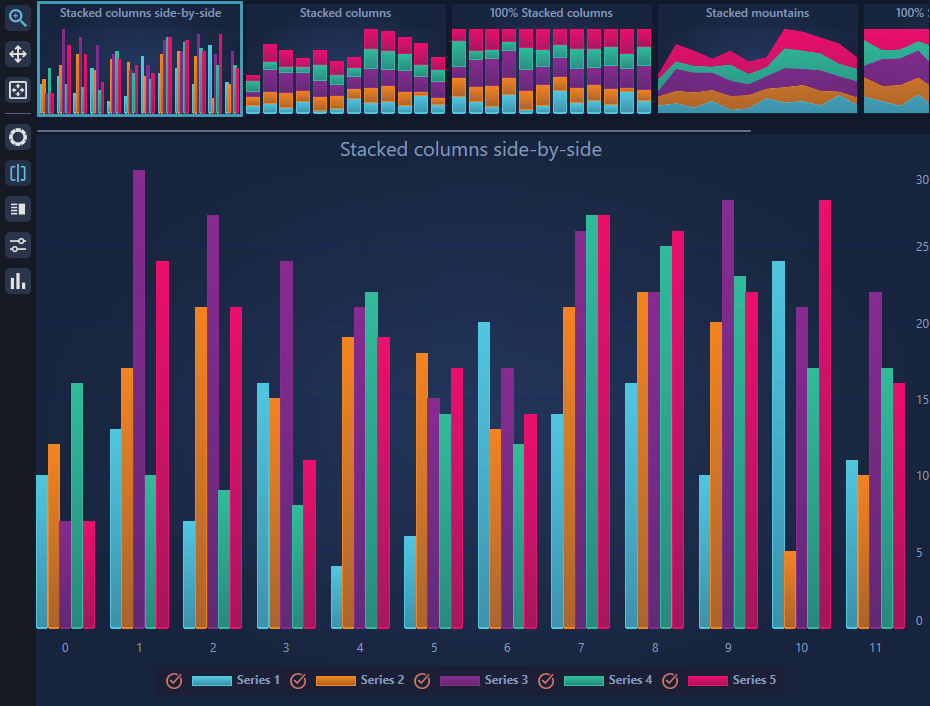
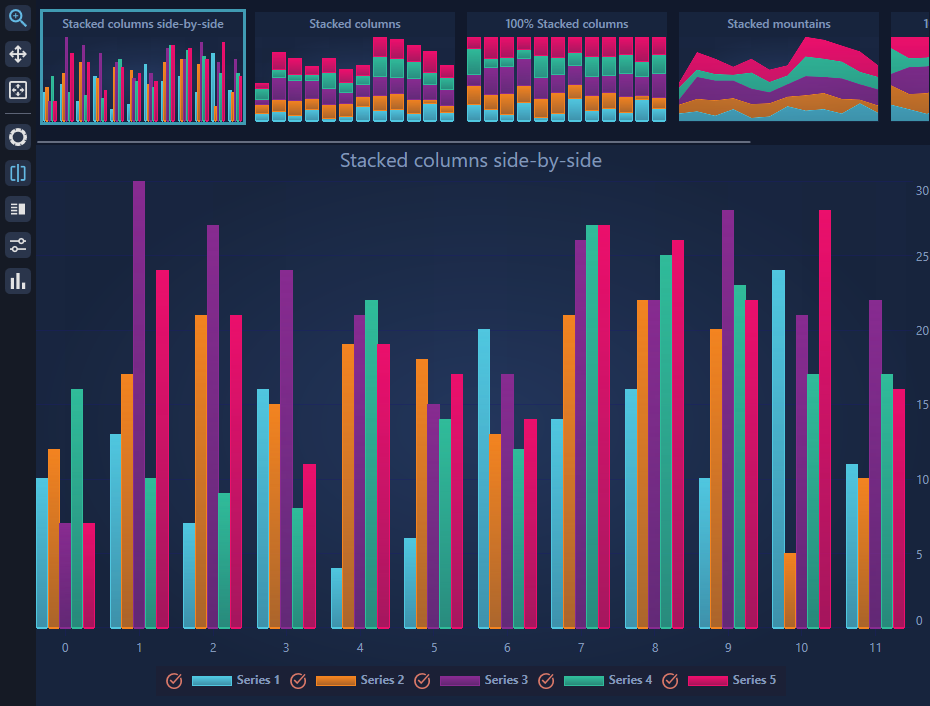
SciChart version 8.0.0.27737

diff --git a/Examples/SciChart.Examples/Examples/CreateMultiseriesChart/DashboardStyleCharts/ExampleListBoxStyle.xaml b/Examples/SciChart.Examples/Examples/CreateMultiseriesChart/DashboardStyleCharts/ExampleListBoxStyle.xaml
@@ -3,36 +3,36 @@
                     xmlns:s="http://schemas.abtsoftware.co.uk/scichart">
 
     <Style x:Key="ExampleListBoxStyle" TargetType="ListBox">
-        <Setter Property="Background" Value="Transparent" />
-        <Setter Property="BorderThickness" Value="0" />
+        <Setter Property="Background" Value="Transparent"/>
+        <Setter Property="BorderThickness" Value="0"/>
+        <Setter Property="Margin" Value="0,5,0,0"/>
         <Setter Property="ItemsPanel">
             <Setter.Value>
                 <ItemsPanelTemplate>
-                    <StackPanel Orientation="Horizontal" />
+                    <StackPanel Orientation="Horizontal"/>
                 </ItemsPanelTemplate>
             </Setter.Value>
         </Setter>
         <Setter Property="ItemContainerStyle">
             <Setter.Value>
                 <Style TargetType="ListBoxItem">
-                    <Setter Property="Padding" Value="3" />
-                    <Setter Property="HorizontalContentAlignment" Value="Left" />
-                    <Setter Property="VerticalContentAlignment" Value="Top" />
-                    <Setter Property="Background" Value="Transparent" />
-                    <Setter Property="BorderThickness" Value="1" />
+                    <Setter Property="Padding" Value="3"/>
+                    <Setter Property="HorizontalContentAlignment" Value="Left"/>
+                    <Setter Property="VerticalContentAlignment" Value="Center"/>
+                    <Setter Property="Background" Value="Transparent"/>
                     <Setter Property="Template">
                         <Setter.Value>
                             <ControlTemplate TargetType="ListBoxItem">
-                                <Grid Background="{TemplateBinding Background}">
+                                <Border Background="{TemplateBinding Background}">
                                     <VisualStateManager.VisualStateGroups>
                                         <VisualStateGroup x:Name="CommonStates">
-                                            <VisualState x:Name="Normal" />
+                                            <VisualState x:Name="Normal"/>
                                             <VisualState x:Name="MouseOver">
                                                 <Storyboard>
                                                     <DoubleAnimation Duration="0"
                                                                      Storyboard.TargetName="fillColor"
                                                                      Storyboard.TargetProperty="Opacity"
-                                                                     To=".35" />
+                                                                     To=".35"/>
                                                 </Storyboard>
                                             </VisualState>
                                             <VisualState x:Name="Disabled">
@@ -40,18 +40,18 @@
                                                     <DoubleAnimation Duration="0"
                                                                      Storyboard.TargetName="contentPresenter"
                                                                      Storyboard.TargetProperty="Opacity"
-                                                                     To=".55" />
+                                                                     To=".55"/>
                                                 </Storyboard>
                                             </VisualState>
                                         </VisualStateGroup>
                                         <VisualStateGroup x:Name="SelectionStates">
-                                            <VisualState x:Name="Unselected" />
+                                            <VisualState x:Name="Unselected"/>
                                             <VisualState x:Name="Selected">
                                                 <Storyboard>
                                                     <DoubleAnimation Duration="0"
                                                                      Storyboard.TargetName="fillColor2"
                                                                      Storyboard.TargetProperty="Opacity"
-                                                                     To=".75" />
+                                                                     To=".75"/>
                                                 </Storyboard>
                                             </VisualState>
                                         </VisualStateGroup>
@@ -69,33 +69,32 @@
                                                     </ObjectAnimationUsingKeyFrames>
                                                 </Storyboard>
                                             </VisualState>
-                                            <VisualState x:Name="Unfocused" />
+                                            <VisualState x:Name="Unfocused"/>
                                         </VisualStateGroup>
                                     </VisualStateManager.VisualStateGroups>
-                                    <Rectangle x:Name="fillColor"
-                                               Fill="{StaticResource MainThemeSolidBrush}"
-                                               IsHitTestVisible="False"
-                                               Opacity="0"
-                                               RadiusX="1"
-                                               RadiusY="1" />
-                                    <Rectangle x:Name="fillColor2"
-                                               Fill="{StaticResource MainThemeSolidBrush}"
-                                               IsHitTestVisible="False"
-                                               Opacity="0"
-                                               RadiusX="1"
-                                               RadiusY="1" />
-                                    <ContentPresenter x:Name="contentPresenter"
-                                                      Margin="{TemplateBinding Padding}"
-                                                      HorizontalAlignment="{TemplateBinding HorizontalContentAlignment}"
-                                                      Content="{TemplateBinding Content}"
-                                                      ContentTemplate="{TemplateBinding ContentTemplate}" />
-                                    <Rectangle x:Name="FocusVisualElement"
-                                               RadiusX="1"
-                                               RadiusY="1"
-                                               Stroke="{StaticResource MainThemeSolidBrush}"
-                                               StrokeThickness="1"
-                                               Visibility="Collapsed" />
-                                </Grid>
+                                    <Grid Margin="{TemplateBinding Padding}">
+                                        <Rectangle x:Name="fillColor"
+                                                   Fill="{StaticResource MainThemeSolidBrush}"
+                                                   IsHitTestVisible="False"
+                                                   Opacity="0"/>
+
+                                        <Rectangle x:Name="fillColor2"
+                                                   Fill="{StaticResource MainThemeSolidBrush}"
+                                                   IsHitTestVisible="False"
+                                                   Opacity="0"/>
+
+                                        <ContentPresenter x:Name="contentPresenter"
+                                                          Margin="{TemplateBinding Padding}"
+                                                          HorizontalAlignment="{TemplateBinding HorizontalContentAlignment}"
+                                                          Content="{TemplateBinding Content}"
+                                                          ContentTemplate="{TemplateBinding ContentTemplate}"/>
+
+                                        <Rectangle x:Name="FocusVisualElement"
+                                                   Stroke="{StaticResource MainThemeSolidBrush}"
+                                                   StrokeThickness="1"
+                                                   Visibility="Collapsed"/>
+                                    </Grid>
+                                </Border>
                             </ControlTemplate>
                         </Setter.Value>
                     </Setter>
@@ -105,42 +104,56 @@
         <Setter Property="ItemTemplate">
             <Setter.Value>
                 <DataTemplate>
-                    <Grid>
-                        <s:SciChartSurface Width="200"
-                                           Height="110"
-                                           FontSize="12"
-                                           FontWeight="SemiBold"
-                                           ChartTitle="{Binding TypeName}"
-                                           RenderableSeries="{s:SeriesBinding RenderableSeriesViewModels}">
+                    <Grid Background="{StaticResource ThemedSurfaceChartBackground}">
+                        <Grid.RowDefinitions>
+                            <RowDefinition Height="25"/>
+                            <RowDefinition Height="*"/>
+                        </Grid.RowDefinitions>
+                        
+                        <s:SciChartSurface Grid.Row="1"
+                                           x:Name="surface"
+                                           Width="200"
+                                           Height="85"
+                                           RenderableSeries="{s:SeriesBinding RenderableSeriesViewModels}"
+                                           IsHitTestVisible="False">
 
                             <s:SciChartSurface.Resources>
-                                <ResourceDictionary Source="RenderebleSeriesStyles.xaml" />
+                                <ResourceDictionary Source="RenderebleSeriesStyles.xaml"/>
                             </s:SciChartSurface.Resources>
 
-                            <!--  Create an X Axis  -->
                             <s:SciChartSurface.XAxis>
                                 <s:NumericAxis DrawMajorGridLines="False"
                                                DrawMinorGridLines="False"
-                                               Visibility="Collapsed" />
+                                               Visibility="Collapsed"/>
                             </s:SciChartSurface.XAxis>
-
-                            <!--  Create a Y Axis with GrowBy  -->
+                            
                             <s:SciChartSurface.YAxis>
                                 <s:NumericAxis DrawMajorBands="True"
                                                DrawMajorGridLines="False"
                                                DrawMinorGridLines="False"
-                                               Visibility="Collapsed" />
+                                               Visibility="Collapsed"/>
                             </s:SciChartSurface.YAxis>
                         </s:SciChartSurface>
 
-                        <Border HorizontalAlignment="Stretch" VerticalAlignment="Stretch">
-                            <Border.Background>
-                                <LinearGradientBrush StartPoint="0.5,0" EndPoint="1,0">
-                                    <GradientStop Offset="0.0" Color="#00FEFEFE" />
-                                    <GradientStop Offset="1.0" Color="#00000000" />
-                                </LinearGradientBrush>
-                            </Border.Background>
+                        <Border Grid.Row="0"
+                                HorizontalAlignment="Stretch"
+                                VerticalAlignment="Stretch"   
+                                Background="{StaticResource ThemedSurfaceChartBackground}">
+
+                            <TextBlock Text="{Binding TypeName}"
+                                       FontSize="12"
+                                       FontWeight="SemiBold"
+                                       Foreground="{Binding Foreground, Mode=OneWay, Source={x:Reference surface}}"
+                                       Margin="0,0,0,2"
+                                       HorizontalAlignment="Center"
+                                       VerticalAlignment="Center"/>
                         </Border>
+
+                        <Border Grid.Row="0"
+                                Grid.RowSpan="2"
+                                HorizontalAlignment="Stretch"
+                                VerticalAlignment="Stretch"
+                                Background="Transparent"/>
                     </Grid>
                 </DataTemplate>
             </Setter.Value>

diff --git a/Examples/SciChart.Examples/Examples/UseSciChartWithMvvm/SciChartMVVMBindings/SciChartMvvmBindingsView.xaml b/Examples/SciChart.Examples/Examples/UseSciChartWithMvvm/SciChartMVVMBindings/SciChartMvvmBindingsView.xaml
@@ -5,6 +5,7 @@
              xmlns:d="http://schemas.microsoft.com/expression/blend/2008"
              xmlns:s="http://schemas.abtsoftware.co.uk/scichart"
              xmlns:local="clr-namespace:SciChart.Examples.Examples.UseSciChartWithMvvm.SciChartMVVMBinding"
+             xmlns:ext="http://schemas.abtsoftware.co.uk/scichart/exampleExternals"
              mc:Ignorable="d" 
              d:DesignHeight="300" d:DesignWidth="300">
 
@@ -32,7 +33,7 @@
         <!--  The SciChartInteractionToolbar adds zoom, pan, zoom extents and rotate functionality  -->
         <!--  to the chart and is included for example purposes.  -->
         <!--  If you wish to know how to zoom and pan a chart then do a search for Zoom Pan in the Examples suite!  -->
-        <!--<ext:SciChartInteractionToolbar TargetSurface="{Binding Source={x:Reference Name=sciChart}}"/>-->
+        <ext:SciChartInteractionToolbar TargetSurface="{Binding Source={x:Reference Name=sciChart}}"/>
 
         <s:SciChartSurface x:Name="sciChart"
                            Grid.Column="1"

diff --git a/Examples/SciChart.Examples/Examples/CreateMultiseriesChart/DashboardStyleCharts/ChartTypeViewModelFactory.cs b/Examples/SciChart.Examples/Examples/CreateMultiseriesChart/DashboardStyleCharts/ChartTypeViewModelFactory.cs
@@ -27,26 +27,30 @@ namespace SciChart.Examples.Examples.CreateMultiseriesChart.DashboardStyleCharts
         {
             var xValues = DashboardDataHelper.GetXValues();
             var yValues = DashboardDataHelper.GetYValues();
+
             var columnStyleKeys = DashboardDataHelper.GetColumnStyleKeys();
             var mountainStyleKeys = DashboardDataHelper.GetMountainStyleKeys();
 
             var rSeriesViewModel = new List<IRenderableSeriesViewModel>();
+
             for (int i = 0; i < 5; i++)
             {
-                var dataSeries = new XyDataSeries<double, double> {SeriesName = "Series " + (i + 1)};
+                var dataSeries = new XyDataSeries<double, double> { SeriesName = $"Series {i + 1}" };
                 dataSeries.Append(xValues, yValues[i]);
 
                 IRenderableSeriesViewModel seriesViewModel;
-                if (type == typeof (IStackedColumnRenderableSeries))
+
+                if (type == typeof(IStackedColumnRenderableSeries))
                 {
                     seriesViewModel = isSideBySide
-                        ? GetStackedColumn(dataSeries, isOneHundredPercent, columnStyleKeys[i], i.ToString())
-                        : GetStackedColumn(dataSeries, isOneHundredPercent, columnStyleKeys[i], "");
+                        ? GetStackedColumn(dataSeries, isOneHundredPercent, columnStyleKeys[i], $"G{i}")
+                        : GetStackedColumn(dataSeries, isOneHundredPercent, columnStyleKeys[i], "G1");
                 }
                 else
                 {
                     seriesViewModel = GetStackedMountain(dataSeries, isOneHundredPercent, mountainStyleKeys[i]);
                 }
+
                 rSeriesViewModel.Add(seriesViewModel);
             }
 
@@ -60,7 +64,7 @@ namespace SciChart.Examples.Examples.CreateMultiseriesChart.DashboardStyleCharts
                 DataSeries = dataSeries,
                 StyleKey = styleKey,
                 IsOneHundredPercent = isOneHundredPercent,
-                StackedGroupId = group,
+                StackedGroupId = group
             };
         }
 
@@ -70,7 +74,7 @@ namespace SciChart.Examples.Examples.CreateMultiseriesChart.DashboardStyleCharts
             {
                 DataSeries = dataSeries,
                 StyleKey = styleKey,
-                IsOneHundredPercent = isOneHundredPercent,
+                IsOneHundredPercent = isOneHundredPercent
             };
         }
     }

diff --git a/Examples/SciChart.Examples.ExternalDependencies/Controls/Toolbar2D/SciChartInteractionToolbar.cs b/Examples/SciChart.Examples.ExternalDependencies/Controls/Toolbar2D/SciChartInteractionToolbar.cs
@@ -305,8 +305,8 @@ namespace SciChart.Examples.ExternalDependencies.Controls.Toolbar2D
         {
             var isPolar = (scs is SciChartSurface surface) &&
                 (surface.IsPolarChart ||
-                 surface.XAxes.Any(x => x.IsPolarAxis) ||
-                 surface.YAxes.Any(x => x.IsPolarAxis));
+                 surface.XAxes?.Any(x => x.IsPolarAxis) == true ||
+                 surface.YAxes?.Any(x => x.IsPolarAxis) == true);
 
             var devModifiers = new List<IChartModifier>();
             var userModifiers = new List<IChartModifier>();
@@ -348,8 +348,8 @@ namespace SciChart.Examples.ExternalDependencies.Controls.Toolbar2D
             // AnnotationCreationModifier
             var annotationMod = new CustomAnnotationCreationModifier
             {
-                XAxisId = scs.XAxes.Any() ? scs.XAxes.First().Id : AxisCore.DefaultAxisId,
-                YAxisId = scs.YAxes.Any() ? scs.YAxes.First().Id : AxisCore.DefaultAxisId
+                XAxisId = scs.XAxes?.Any() == true ? scs.XAxes.First().Id : AxisCore.DefaultAxisId,
+                YAxisId = scs.YAxes?.Any() == true ? scs.YAxes.First().Id : AxisCore.DefaultAxisId
             };
 
             annotationMod.AnnotationCreated += (sender, args) =>
